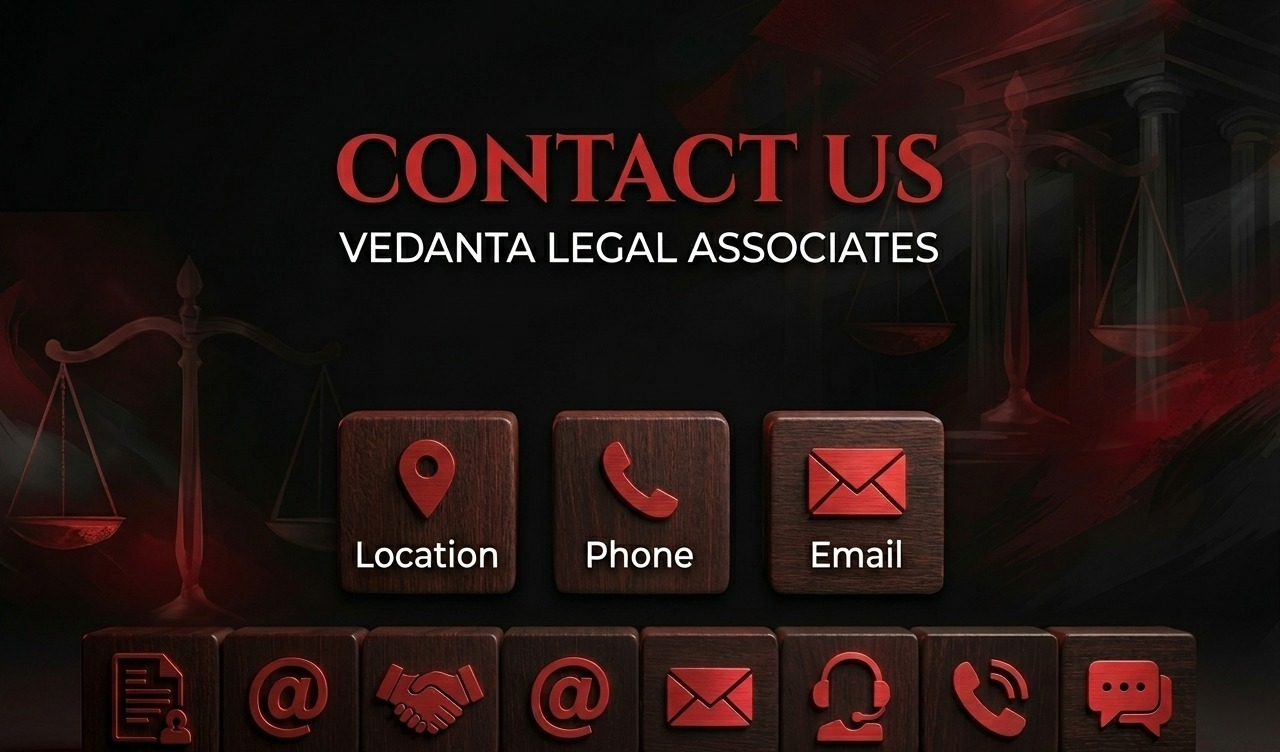
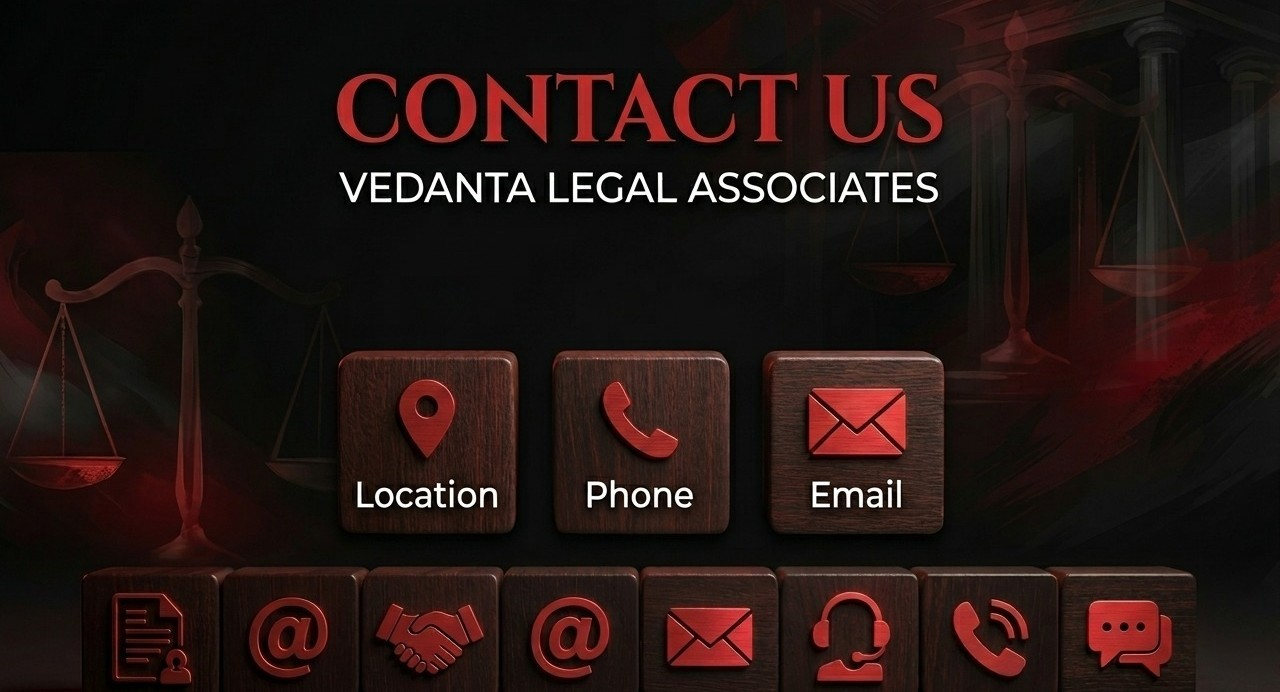
fix header img

diff --git a/src/pages/Contact/ContactHero.jsx b/src/pages/Contact/ContactHero.jsx
@@ -1,46 +1,29 @@
-/* eslint-disable no-unused-vars */
-import React from "react";
+import "react";
 import Header from "../../components/layout/Header";
-import HeroBG from "../../assets/HeroHomeBG.png";
-import HeroImg from "../../assets/HomeOurServicesImg1.png";
 
-const PracticeAreasHero = () => {
+const ContactHero = () => {
   return (
-    <div className="relative min-h-screen flex flex-col justify-center overflow-hidden bg-black">
-
-      {/* Background Layer */}
-      <div className="absolute inset-0 z-0 overflow-hidden pointer-events-none flex items-center justify-center">
-        {/* Optional background pattern */}
-      </div>
-
+    <div className="relative w-full h-[95vh] overflow-hidden bg-none">
       <Header />
 
-      {/* Main Content Area (REMOVED padding + margins causing borders) */}
-      <div className="relative z-10 w-full flex items-center justify-center flex-1">
+      {/* Background Image Container */}
+      <div className="absolute inset-0">
+        <div
+          className="absolute inset-0 bg-cover bg-center"
+          style={{
+            backgroundImage: `url("/WhatsApp Image 2026-06-02 at 08.45.00.jpeg")`,
+          }}
+        />
+        {/* Dark Overlay */}
+        <div className="absolute inset-0 bg-black/50" />
+      </div>
 
-        {/* FULLSCREEN HERO CONTAINER */}
-        <div className="relative w-full h-screen overflow-hidden">
-
-          {/* Background Image */}
-          <div
-            className="absolute inset-0 bg-cover bg-center"
-            style={{
-              backgroundImage: `url("/WhatsApp Image 2026-06-02 at 08.45.00.jpeg")`,
-              backgroundSize: "cover",
-              backgroundPosition: "center",
-            }}
-          />
-
-          {/* Dark Overlay */}
-          <div className="absolute inset-0 bg-black/50" />
-
-          
-          
-        </div>
-
+      {/* Content Area */}
+      <div className="relative z-10 w-full h-full flex items-center justify-center">
+        {/* Content goes here */}
       </div>
     </div>
   );
 };
 
-export default PracticeAreasHero;
+export default ContactHero;

diff --git a/src/pages/Contact/ContactForm.jsx b/src/pages/Contact/ContactForm.jsx
@@ -4,7 +4,7 @@ import {ArrowUpRight} from "lucide-react";
 
 export default function ContactForm() {
     return (
-        <section className="bg-[#303030] min-h-screen py-20 px-4 md:px-8 font-sans">
+        <section className="bg-[#303030] min-h-screen py-10 px-4 md:px-8 font-sans">
             <div className="max-w-300 mx-auto flex flex-col items-center">
                 {/* --- Header Section --- */}
                 <div className="text-center mb-16 flex flex-col items-center">